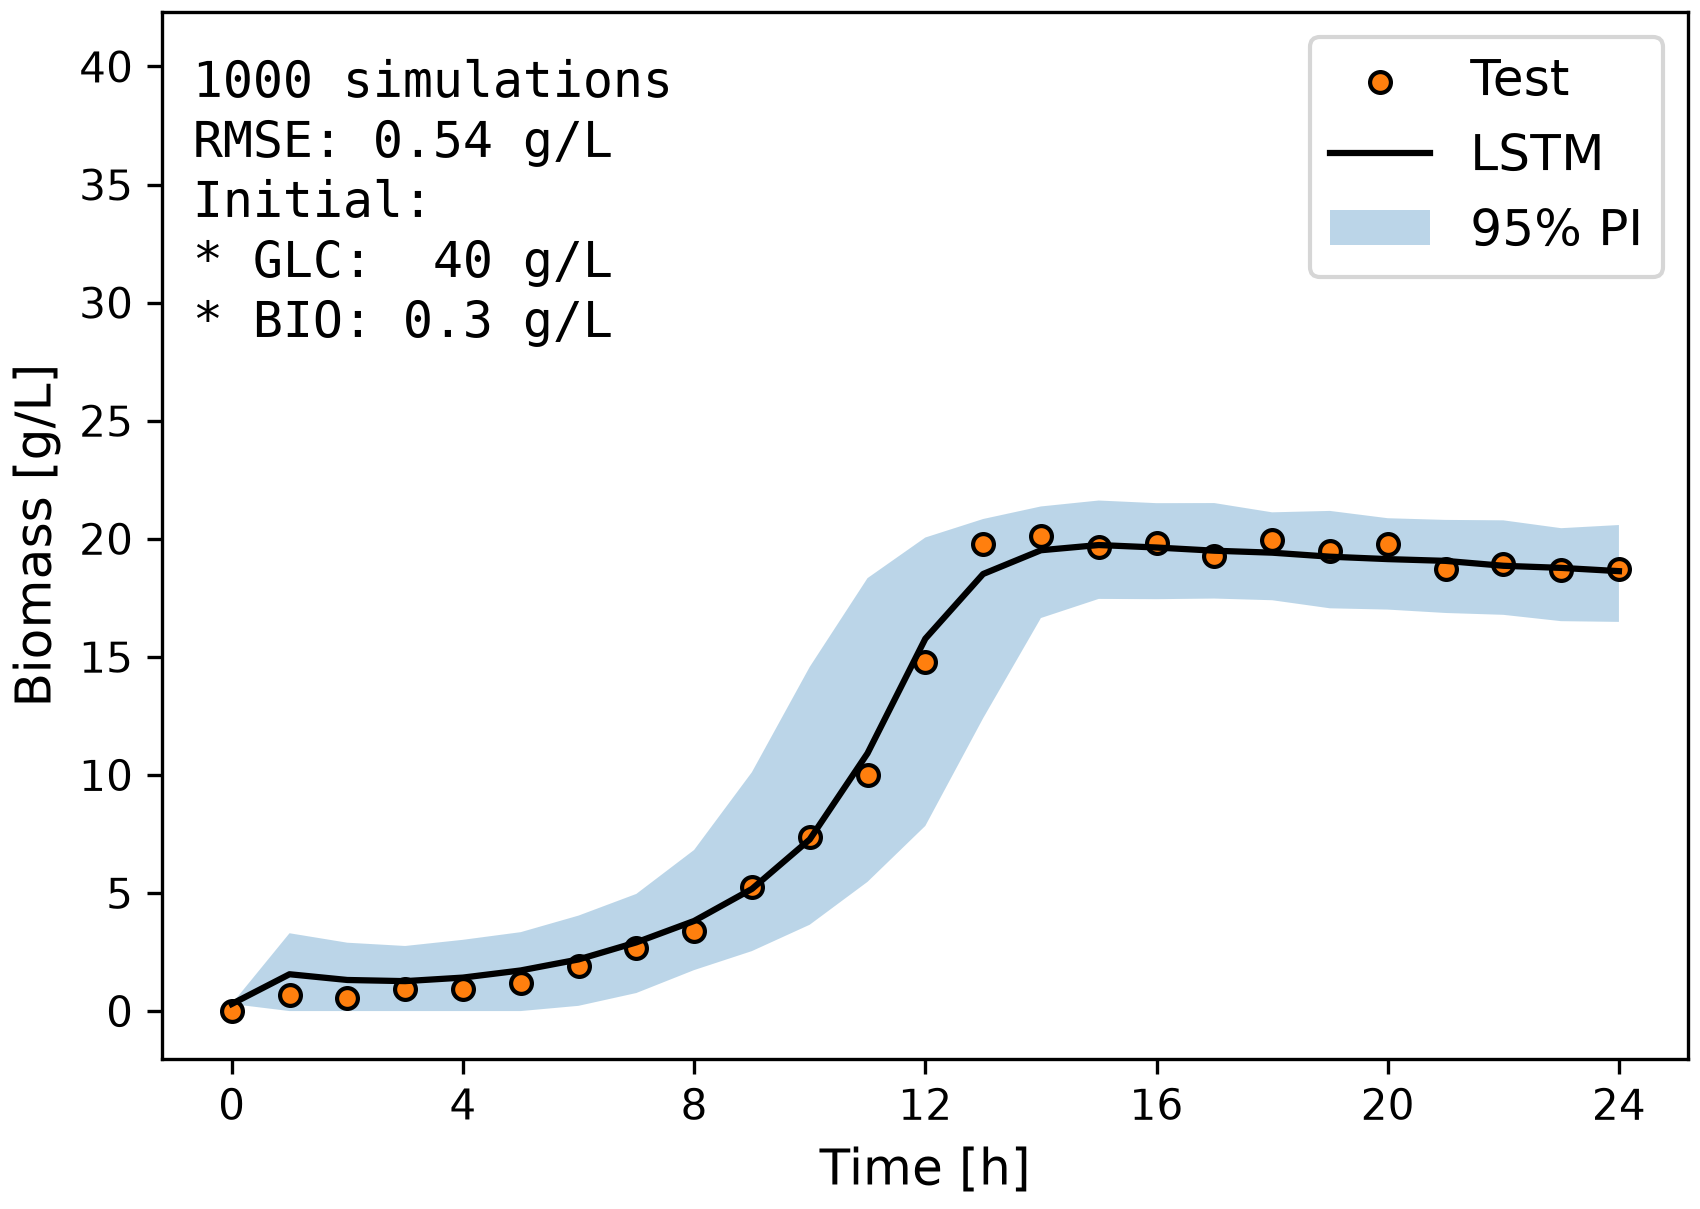
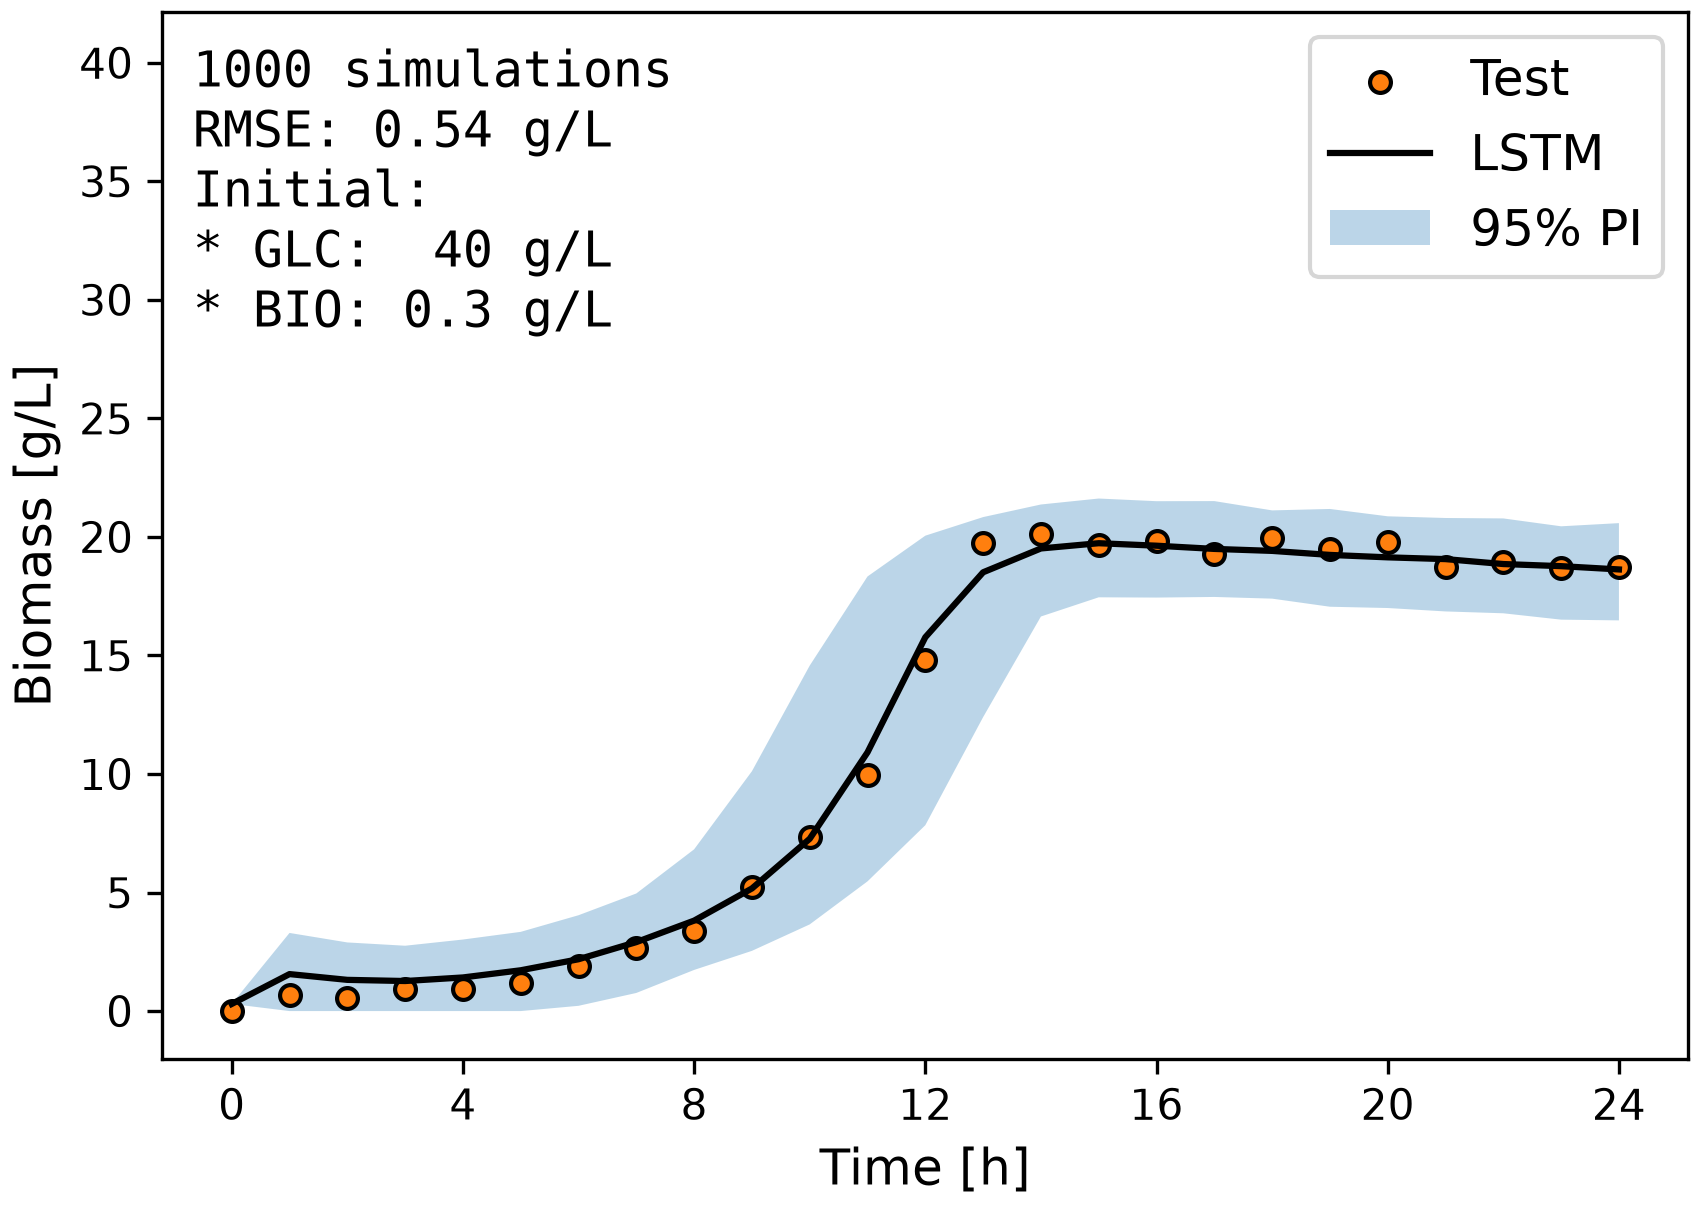
Updated Unit 7 > Main 1

diff --git a/units/unit_07/main_01_lstm.py b/units/unit_07/main_01_lstm.py
@@ -1,3 +1,25 @@
+# ============================================================================
+#   Long Short-Term Memory (LSTM) Networks
+# ============================================================================
+#
+#   * LSTM networks are a type of recurrent neural network (RNN) designed
+#     to learn temporal patterns in sequential data.
+#
+#   * Unlike fully connected neural networks, LSTM maintains an internal
+#     memory state that enables it to capture time-dependent process
+#     dynamics.
+#
+#   * This example trains an LSTM to model batch cell culture dynamics,
+#     then recursively forecasts future process states.
+#
+#   * Forecast uncertainty is estimated using Monte Carlo simulation.
+#     Residual errors from the training data are repeatedly sampled and
+#     added to model predictions to generate prediction intervals.
+#
+#   * Model performance is evaluated using RMSE on a held-out test batch.
+#
+# ============================================================================
+
 import gc
 import os
 import random
@@ -37,10 +59,10 @@ df_ic = pd.read_csv(os.path.join("datasets", "dataset_cell_growth_time_series_ic
 # Extract the unique batch IDs
 batch_ids = np.unique(df.loc[:, "Batch ID"])
 
-# Define batch_id_test
+# Define the test batch
 batch_id_test = 13
 
-# Select all process variables to include in the NVAR model
+# Select all process variables to include in the LSTM model
 features = df.columns[2:]
 
 # Select the variable that will be plotted and evaluated
@@ -50,20 +72,19 @@ idx_fp = np.argmax(features == feature_plot)
 # Extract units for plotting and reporting
 units = feature_plot.split(" [")[-1][:-1]
 
-n_iters = n_simulations
-c_iter = 0
-
-# Create a figure containing one subplot for each set of experimental initial conditions.
+# Create a figure
 fig, ax = plt.subplots(1, 1, figsize=((14.4 / 2.54), (10.24 / 2.54)), dpi=300, layout="constrained")
 
-y_min = 0
-y_max = np.max(df.loc[:, feature_plot])
+# Variables for progress bar
+c_iter = 0
+n_iters = n_simulations
 
-# Prepare the dataset to train LSTM
+# Prepare sequence data for LSTM training
 x_data = df.loc[:, features].to_numpy()
 group_ids = df.loc[:, "Batch ID"].to_numpy()
 x_sequences, y_sequences, g_sequences = prepare_data(x_data, group_ids, seq_length)
 
+# Hold out one complete batch for testing
 mask_test = (g_sequences == batch_id_test)
 mask_train = ~mask_test
 
@@ -93,14 +114,15 @@ model = LSTMNeuralNetwork(
 model.fit(x_train, y_train, g_train)
 
 # Calculate residual errors on the training data.
-# These residuals will later be sampled during forecast simulations to estimate white noise.
 y_train_pred, _ = model.predict(x_train)
 y_train_res = y_train_pred - y_train
 
+# Calculate the range of values observed during training
 a_min = np.min(y_train)
 a_max = np.max(y_train)
 
-# Initial state containing all process variables
+# Initialize forecasting conditions.
+# Forecasting begins from experimentally known initial conditions.
 idx_ic = (df_ic.loc[:, "Batch ID"] == batch_id_test).idxmax()
 x_initial = df_ic.loc[idx_ic, features].to_numpy()
 initial_glucose = df_ic.at[idx_ic, "Glucose [g/L]"]
@@ -117,6 +139,7 @@ for _ in range(n_simulations):
     # Initialize the forecast using the known initial conditions.
     x_forecast = [x_initial]
     hidden_state = None
+
     # Generate forecasts recursively.
     while len(x_forecast) < t_exp_test.shape[0]:
 
@@ -158,6 +181,7 @@ x_forecast_pi_higher = np.quantile(x_forecasts, q=1 - alpha / 2, axis=0)
 # Calculate RMSE for the selected plotting variable
 rmse_forecast = root_mean_squared_error(x_exp_test[:, idx_fp], x_forecast_median[:, idx_fp])
 
+# Create information box
 message = f"{n_simulations} simulations\n"
 message += f"RMSE: {rmse_forecast:.2f} {units}\n"
 message += f"Initial:\n"
@@ -173,13 +197,15 @@ ax.fill_between(t_exp_test, x_forecast_pi_lower[:, idx_fp], x_forecast_pi_higher
 # Display forecast error and initial conditions
 ax.text(x=0.02, y=0.97, s=message, va='top', ha='left', transform=ax.transAxes, fontname="monospace", fontsize=12)
 
-# Track the maximum value needed for consistent subplot limits
-y_max = max(y_max, np.max(x_test[:, idx_fp]), np.max(x_forecast_pi_higher[:, idx_fp]))
+# Calculate the maximum value needed for consistent y-axis limits
+y_min = 0
+y_max = max(np.max(df.loc[:, feature_plot]), np.max(x_forecast_pi_higher[:, idx_fp]))
 
-# Apply consistent axis limits and formatting to all subplots
+# Apply consistent y-axis limits
 y_range = y_max - y_min
 y_buffer = 0.05 * y_range
 
+# Apply plot formatting
 ax.set_ylim(bottom=y_min - y_buffer, top=y_max + y_buffer)
 ax.set_xlabel("Time [h]", fontsize=12)
 ax.set_ylabel(feature_plot, fontsize=12)
